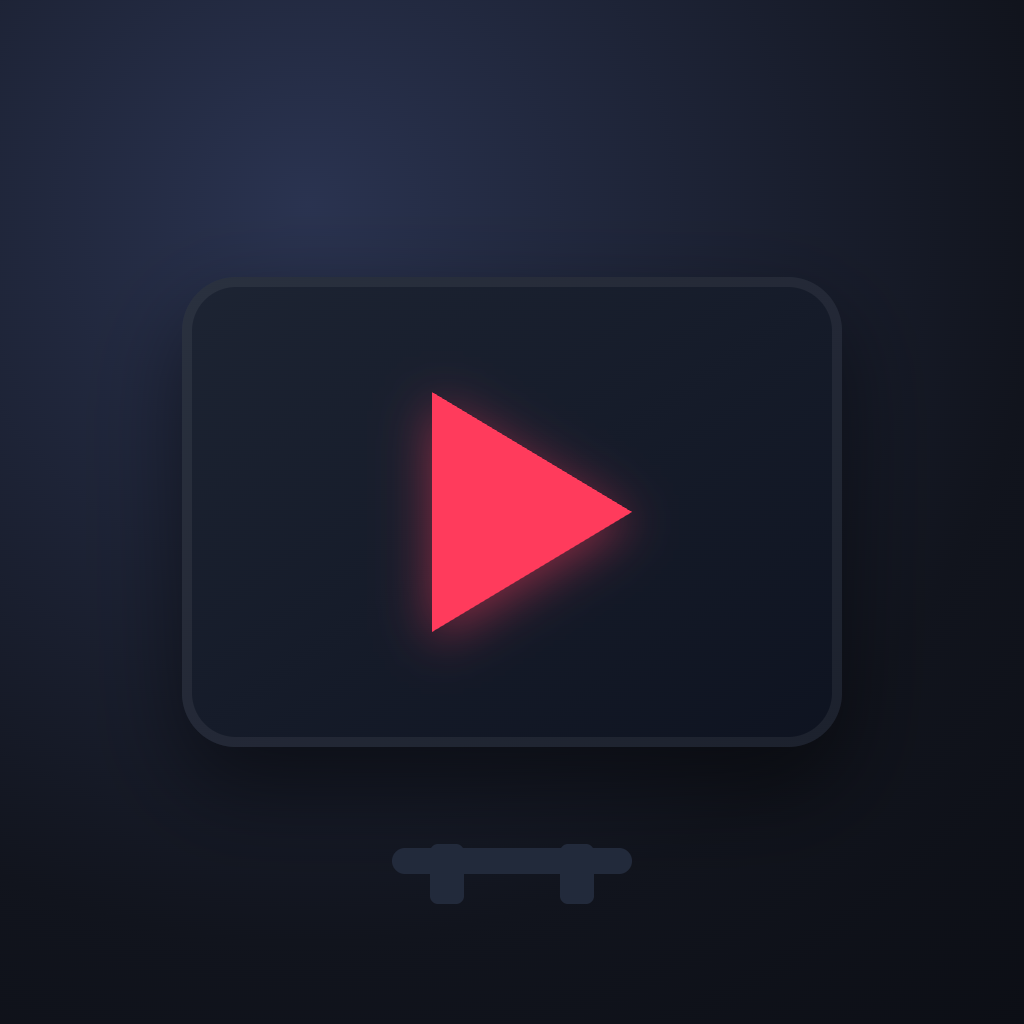
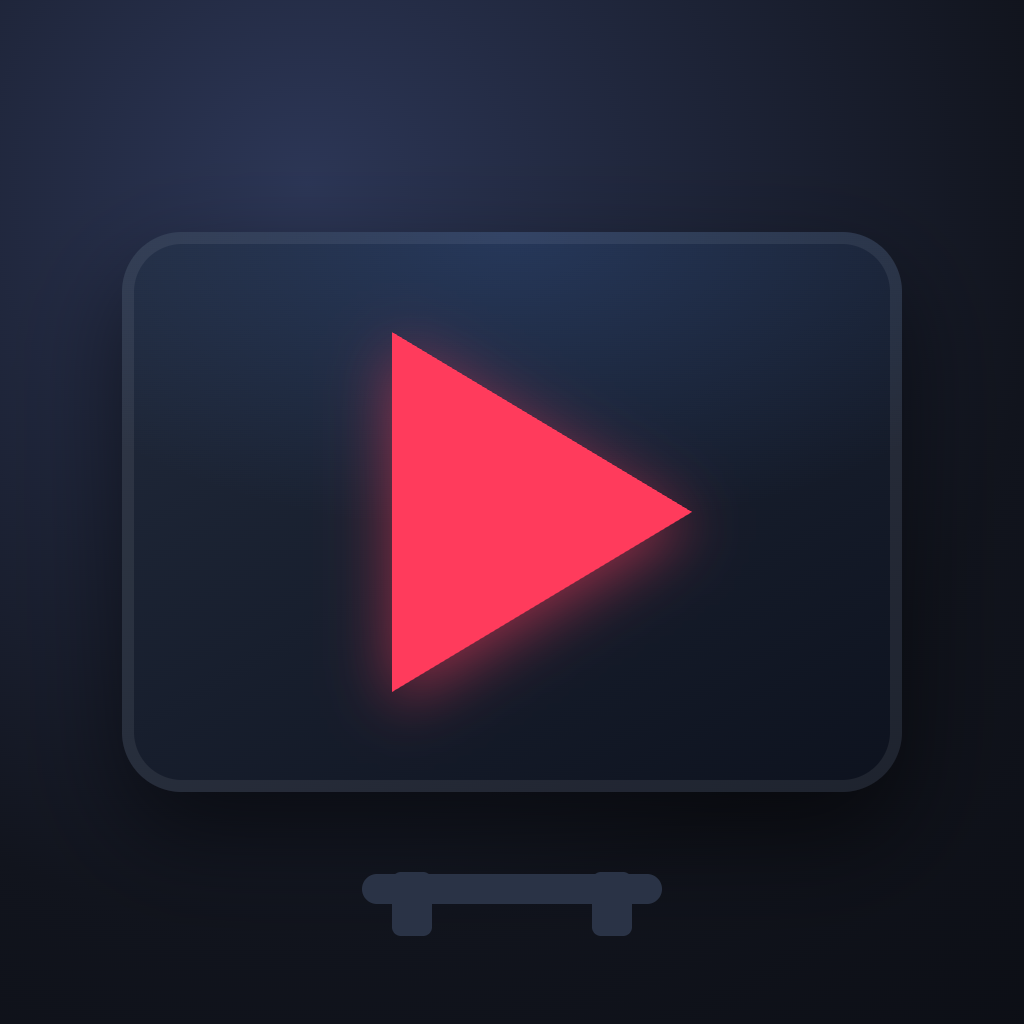
v1.0.10 — icône (play agrandi) + EPG suivant fiabilisé
- Icône redessinée : triangle play plus grand et lisible.
- EPG (barre + guide) : limit=6 et calcul courant/suivant par horodatages
  (corrige l'absence du programme suivant selon les panels Xtream).

Changed region(s): [[0.25, 0.2188, 0.9062, 0.6875], [0.3438, 0.8125, 0.6562, 0.9375], [0.1875, 0.75, 0.8125, 0.7812]]

diff --git a/renderer.js b/renderer.js
@@ -222,16 +222,19 @@ async function loadEpg(streamId) {
   el.textContent = '';
   const my = ++epgReq;
   try {
-    const data = await xtreamApi('action=get_short_epg&stream_id=' + streamId + '&limit=2');
+    const data = await xtreamApi('action=get_short_epg&stream_id=' + streamId + '&limit=6');
     if (my !== epgReq) return; // une autre chaîne a été sélectionnée entre-temps
-    const list = (data && data.epg_listings) || [];
-    if (!list.length) return;
-    const now = decodeEpg(list[0].title);
-    const next = list[1] ? decodeEpg(list[1].title) : '';
-    const t = (s) => { const d = new Date((Number(s) || 0) * 1000); return isNaN(d) ? '' : d.toLocaleTimeString([], { hour: '2-digit', minute: '2-digit' }); };
-    let txt = now ? `🔴 ${now}` : '';
-    if (list[0].start_timestamp) txt = `🔴 ${t(list[0].start_timestamp)} ${now}`;
-    if (next) txt += `   ·   ⏭ ${next}`;
+    const items = (((data && data.epg_listings) || [])
+      .map((x) => ({ title: decodeEpg(x.title), st: Number(x.start_timestamp) || 0, en: Number(x.stop_timestamp) || 0 }))
+      .filter((p) => p.title && p.st)
+      .sort((a, b) => a.st - b.st));
+    if (!items.length) return;
+    const now = Date.now() / 1000;
+    const t = (s) => { const d = new Date(s * 1000); return isNaN(d) ? '' : d.toLocaleTimeString([], { hour: '2-digit', minute: '2-digit' }); };
+    const cur = items.find((p) => p.st <= now && now < p.en);
+    const nxt = items.find((p) => p.st > now);
+    let txt = cur ? `🔴 ${t(cur.st)} ${cur.title}` : '';
+    if (nxt) txt += `${txt ? '   ·   ' : ''}⏭ ${t(nxt.st)} ${nxt.title}`;
     el.textContent = txt;
   } catch { /* EPG indisponible : on ignore */ }
 }
@@ -292,17 +295,25 @@ async function fillEpgRow(c, li) {
   const bar = li.querySelector('.epg-bar');
   const fill = li.querySelector('.epg-bar i');
   try {
-    const data = await xtreamApi('action=get_short_epg&stream_id=' + c.stream_id + '&limit=2');
-    const l = (data && data.epg_listings) || [];
-    if (!l.length) { nowEl.textContent = 'Pas de programme'; nowEl.classList.add('muted'); bar.style.display = 'none'; return; }
-    const t = (s) => { const d = new Date((Number(s) || 0) * 1000); return isNaN(d) ? '' : d.toLocaleTimeString([], { hour: '2-digit', minute: '2-digit' }); };
-    const st = Number(l[0].start_timestamp) || 0, en = Number(l[0].stop_timestamp) || 0;
-    nowEl.textContent = `${t(st)} ${decodeEpg(l[0].title)}`;
-    if (l[1]) nextEl.textContent = `⏭ ${t(l[1].start_timestamp)} ${decodeEpg(l[1].title)}`;
-    // progression
+    const data = await xtreamApi('action=get_short_epg&stream_id=' + c.stream_id + '&limit=6');
+    const items = (((data && data.epg_listings) || [])
+      .map((x) => ({ title: decodeEpg(x.title), st: Number(x.start_timestamp) || 0, en: Number(x.stop_timestamp) || 0 }))
+      .filter((p) => p.title && p.st)
+      .sort((a, b) => a.st - b.st));
+    if (!items.length) { nowEl.textContent = 'Pas de programme'; nowEl.classList.add('muted'); bar.style.display = 'none'; return; }
     const now = Date.now() / 1000;
-    if (en > st && now >= st && now <= en) { fill.style.width = Math.round(((now - st) / (en - st)) * 100) + '%'; }
-    else { bar.style.display = 'none'; }
+    const t = (s) => { const d = new Date(s * 1000); return isNaN(d) ? '' : d.toLocaleTimeString([], { hour: '2-digit', minute: '2-digit' }); };
+    const cur = items.find((p) => p.st <= now && now < p.en);
+    const nxt = items.find((p) => p.st > now);   // 1er programme à venir
+
+    if (cur) {
+      nowEl.textContent = `${t(cur.st)} ${cur.title}`;
+      if (cur.en > cur.st) { fill.style.width = Math.round(((now - cur.st) / (cur.en - cur.st)) * 100) + '%'; }
+      else bar.style.display = 'none';
+    } else {
+      nowEl.textContent = 'Hors programme'; nowEl.classList.add('muted'); bar.style.display = 'none';
+    }
+    nextEl.textContent = nxt ? `⏭ ${t(nxt.st)} ${nxt.title}` : '';
   } catch {
     nowEl.textContent = 'EPG indisponible'; nowEl.classList.add('muted'); bar.style.display = 'none';
   }